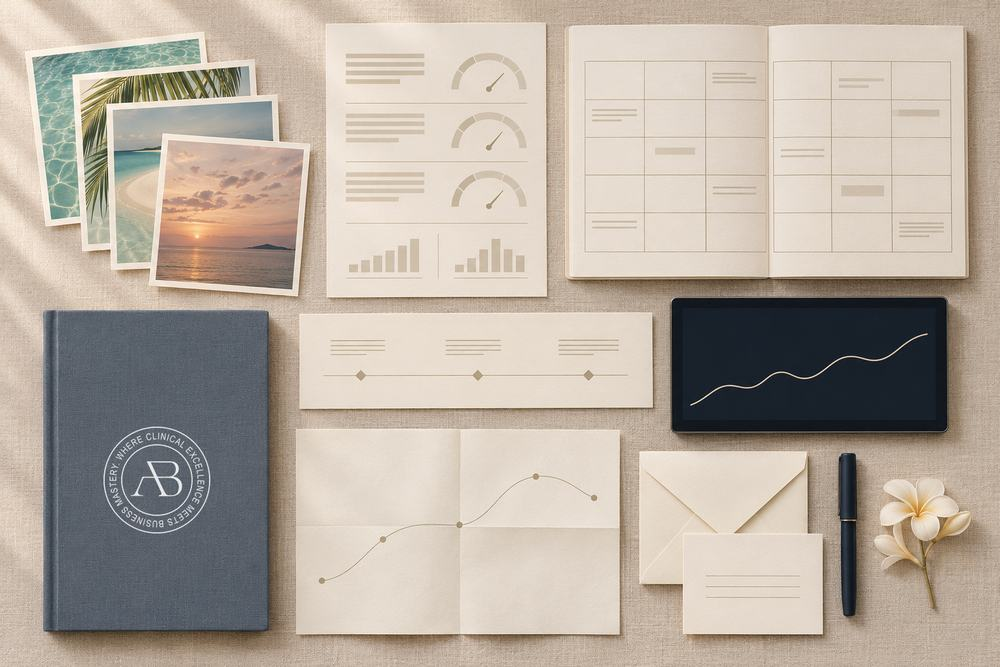
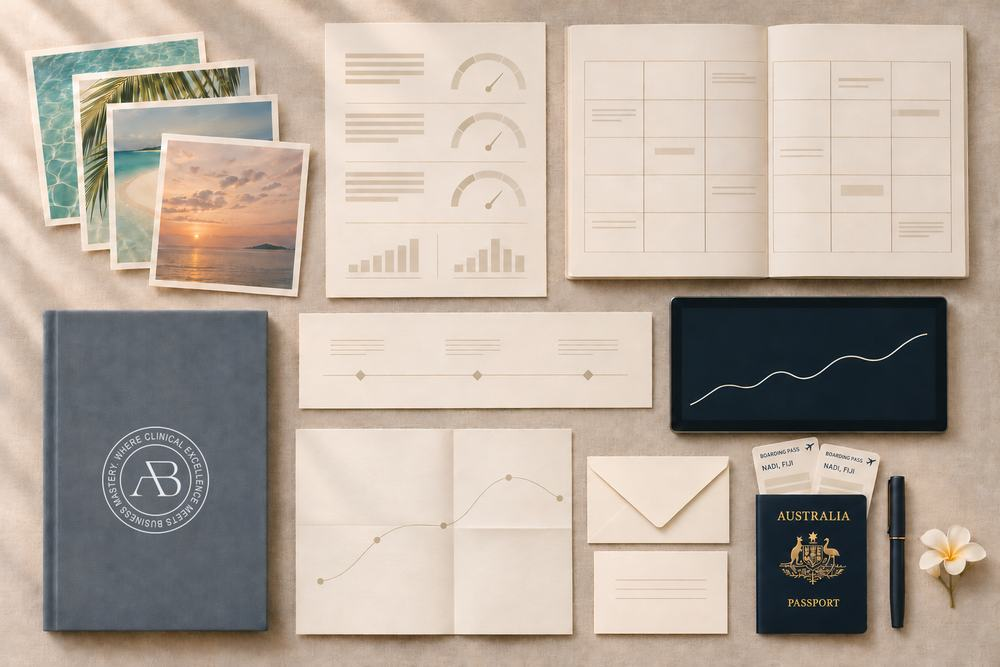
Take-home flat lay with passport and boarding passes
Claude-Session: https://claude.ai/code/session_01EUiVgKdpa7oJ1cQ1EieZKM

diff --git a/index.html b/index.html
@@ -1134,9 +1134,9 @@ h2.sp.in .w > span { transform: none; }
     <h2 data-r style="--d:.05s">Come for the experience. Leave with the assets.</h2>
     <p class="lede" data-r style="--d:.1s">This is education you can use: practical plans, fresh content and systems you can continue developing back in your business.</p>
     <figure class="lay" data-r>
-      <div class="lay-img"><img src="media/take-home-flatlay.jpg" srcset="media/m/take-home-flatlay.jpg 1000w, media/take-home-flatlay.jpg 1536w" sizes="(max-width: 900px) 100vw, 60vw" decoding="async" loading="lazy" alt="A flat lay on cream linen: photo prints, a scorecard with gauges and charts, an open content calendar, a slate book stamped with the Aesthetic Business Masters seal, a timeline card, a tablet with a rising line, a folded map and an envelope"><button class="dot" type="button" style="--x:43.6%;--y:24%" data-k="0">01</button><button class="dot" type="button" style="--x:76.4%;--y:23%" data-k="1">02</button><button class="dot" type="button" style="--x:16.8%;--y:24%" data-k="2">03</button><button class="dot" type="button" style="--x:15.7%;--y:52%" data-k="3">04</button><button class="dot" type="button" style="--x:45.7%;--y:81%" data-k="4">05</button><button class="dot" type="button" style="--x:80.7%;--y:56%" data-k="5">06</button><button class="dot" type="button" style="--x:47.5%;--y:51%" data-k="6">07</button><button class="dot" type="button" style="--x:75%;--y:85%" data-k="7">08</button></div>
+      <div class="lay-img"><img src="media/take-home-flatlay.jpg" srcset="media/m/take-home-flatlay.jpg 1000w, media/take-home-flatlay.jpg 1536w" sizes="(max-width: 900px) 100vw, 60vw" decoding="async" loading="lazy" alt="A flat lay on cream linen: photo prints, a scorecard with gauges and charts, an open content calendar, a slate book stamped with the Aesthetic Business Masters seal, a timeline card, a tablet with a rising line, a folded map, an envelope, and an Australian passport holding two boarding passes to Nadi, Fiji"><button class="dot" type="button" style="--x:43.6%;--y:24%" data-k="0">01</button><button class="dot" type="button" style="--x:76.4%;--y:23%" data-k="1">02</button><button class="dot" type="button" style="--x:16.8%;--y:24%" data-k="2">03</button><button class="dot" type="button" style="--x:15.7%;--y:52%" data-k="3">04</button><button class="dot" type="button" style="--x:45.7%;--y:81%" data-k="4">05</button><button class="dot" type="button" style="--x:80.7%;--y:56%" data-k="5">06</button><button class="dot" type="button" style="--x:47.5%;--y:51%" data-k="6">07</button><button class="dot" type="button" style="--x:65.7%;--y:75%" data-k="7">08</button></div>
       <figcaption aria-live="polite"><b></b><div><h3></h3><p></p></div><span class="caps"></span></figcaption>
-      <p class="fine">An illustration of the collection. Yours is created with you during RESET.</p>
+      <p class="fine">An illustration of the collection. Yours is created with you during RESET. Flights are not included.</p>
     </figure>
     <ol>
       <li data-r><b>01</b><h3>Know your numbers</h3><p>A clear clinic KPI scorecard covering revenue, profit drivers, utilisation and retention.</p></li>
